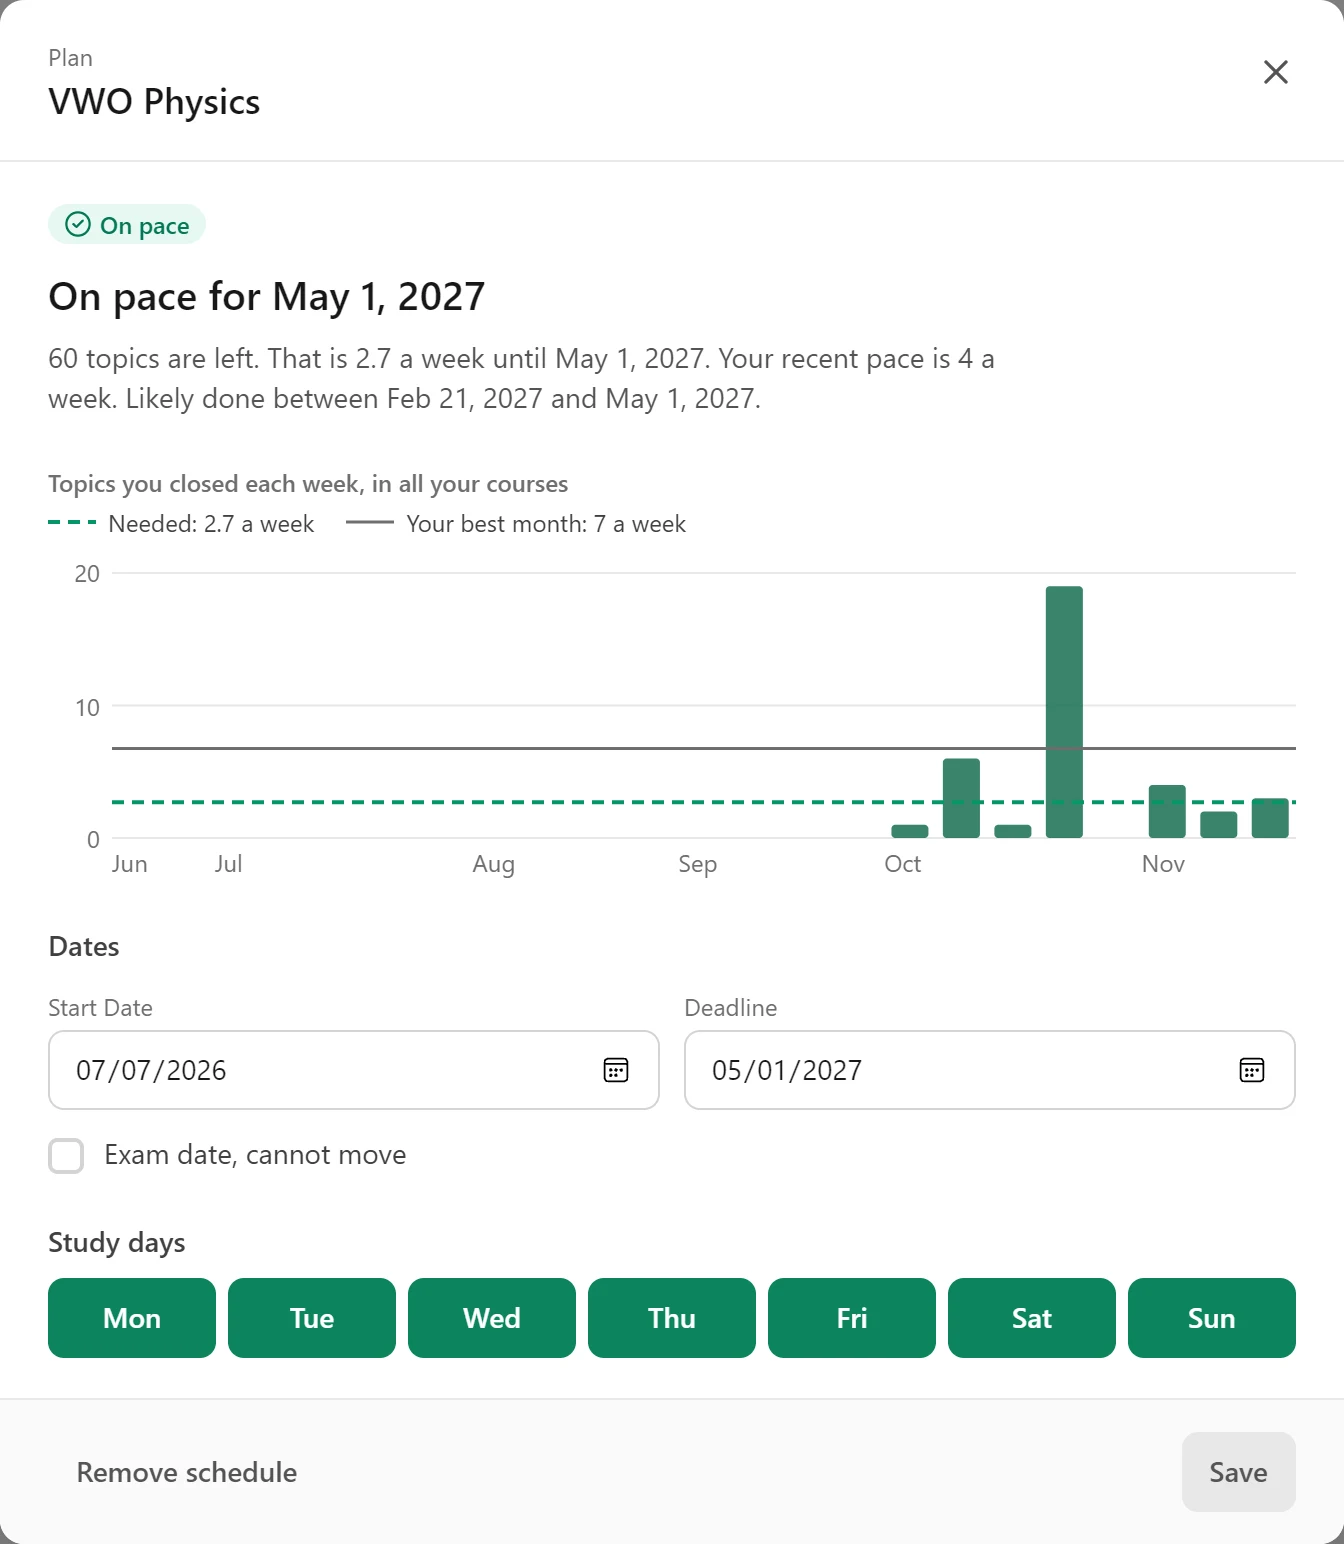
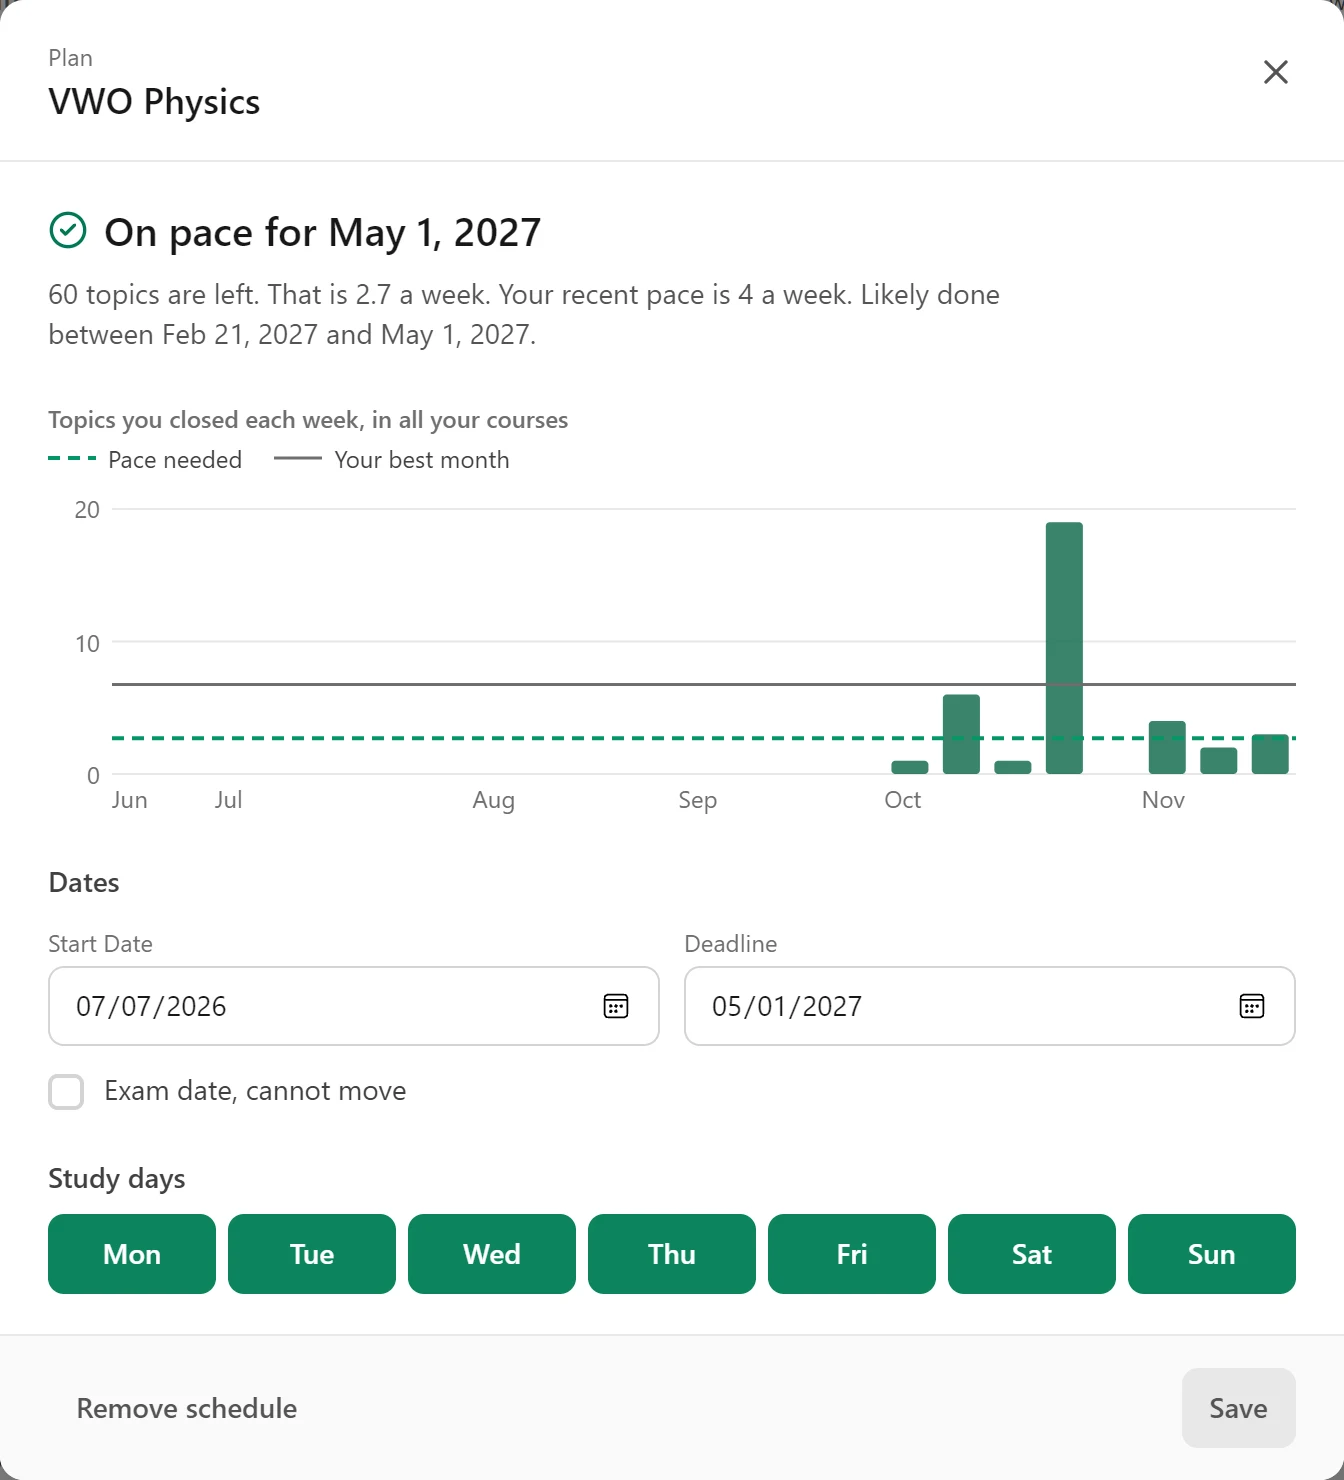
Say each plan fact once in the plan panel
The panel said its verdict twice: a pill reading "On pace" over the
headline "On pace for May 1", and the date again in the sentence under
it. The pill is gone and its icon stands in the headline, in the band's
colour; the sentence gives the weekly rate without the date. The chart's
key names its lines without their numbers, which the sentences give.

diff --git a/src/components/plan/verdict.tsx b/src/components/plan/verdict.tsx
@@ -97,6 +97,17 @@ export function VerdictPill({ verdict, t, className = '' }: {
 }
 
 /**
+ * The band's icon in its colour, for beside a sentence that already names the
+ * band in words (the plan's headline): a pill there said "On pace" twice.
+ */
+export function VerdictIcon({ verdict, className = '' }: { verdict: PaceVerdict; className?: string }) {
+    const Icon = ICON[verdict.band];
+    // The pill's text colour only: no tint behind a bare icon.
+    const colour = TONE[verdict.band].split(' ').filter(c => c.startsWith('text-') || c.startsWith('dark:text-')).join(' ');
+    return <Icon className={`shrink-0 ${colour} ${className}`} aria-hidden="true" />;
+}
+
+/**
  * A weekly amount as it is read: whole numbers from 3 up ("25 a week"), one
  * decimal below that, where "0.4 a week" and "0 a week" say different things.
  * Anything above zero stays above it: one topic left in half a year is 0.1, not
@@ -151,7 +162,6 @@ export function verdictHeadline(v: PaceVerdict, t: TFunction, today: string): st
  */
 export function verdictSentences(v: PaceVerdict, t: TFunction, num: Num, today: string): string[] {
     const cards = v.unit === 'cards';
-    const date = v.deadline ? shortDay(v.deadline, today) : '';
     const out: string[] = [];
     if (v.band === 'done') {
         out.push(cards ? t("Every card in it has been met.") : t("Every topic in it is closed."));
@@ -167,7 +177,8 @@ export function verdictSentences(v: PaceVerdict, t: TFunction, num: Num, today: 
             : t("After two weeks of study the app compares this date with your own pace."));
         return out;
     }
-    out.push(t("That is {{n}} a week until {{date}}.", { n: rate(num, v.needed), date }));
+    // No date: the headline above names it.
+    out.push(t("That is {{n}} a week.", { n: rate(num, v.needed) }));
     if (v.quietWeeks >= 2) {
         out.push(cards
             ? t("No new card met for {{n}} weeks.", { count: v.quietWeeks, n: num(v.quietWeeks) })

diff --git a/src/components/ScheduleModal.tsx b/src/components/ScheduleModal.tsx
@@ -14,7 +14,7 @@ import { TextInput } from './ui/Field';
 import { DIALOG_BODY, DIALOG_SHELL } from './ui/Dialog';
 import Checkbox from './Checkbox';
 import WeeklyChart from './plan/WeeklyChart';
-import { VerdictPill, oneStop, perWeek, shortDay, verdictHeadline, verdictSentences } from './plan/verdict';
+import { VerdictIcon, oneStop, perWeek, shortDay, verdictHeadline, verdictSentences } from './plan/verdict';
 
 /**
  * The plan of one course: will the date work, what can be done if not, and the
@@ -302,9 +302,12 @@ export default function ScheduleModal() {
                     )}
                     {verdict && (
                         <section aria-labelledby={`${titleId}-verdict`} className="space-y-2">
-                            <VerdictPill verdict={verdict} t={t} />
-                            <h3 id={`${titleId}-verdict`} className="text-xl font-semibold text-slate-900 dark:text-white">
-                                {verdictHeadline(verdict, t, today)}
+                            {/* The headline names the band in words, so no pill
+                                above it: "On pace" over "On pace for May 1" said
+                                it twice. Its icon keeps the band's colour. */}
+                            <h3 id={`${titleId}-verdict`} className="flex items-start gap-2 text-xl font-semibold text-slate-900 dark:text-white">
+                                <VerdictIcon verdict={verdict} className="h-[1em] w-[1em] mt-[0.2em]" />
+                                <span className="min-w-0">{verdictHeadline(verdict, t, today)}</span>
                             </h3>
                             <p className="text-sm text-slate-600 dark:text-slate-300 max-w-prose">
                                 {verdictSentences(verdict, t, num, today).join(' ')}

diff --git a/src/components/plan/WeeklyChart.tsx b/src/components/plan/WeeklyChart.tsx
@@ -139,13 +139,14 @@ export default function WeeklyChart({ pace, needed, band, unit }: {
             </figcaption>
             {/* The lines' names sit above the drawing, not at the lines' ends:
                 there they covered the newest weeks, the bars read first. */}
+            {/* Names only: the sentences above the chart give the numbers. */}
             {(neededName || bestName) && (
                 <div aria-hidden="true" className="mt-1 flex flex-wrap gap-x-4 gap-y-0.5 text-xs text-slate-700 dark:text-slate-200">
                     {neededName && (
-                        <span className="inline-flex items-center gap-1.5">{sample(NEEDED_STROKE[band]!, true)}{neededName}</span>
+                        <span className="inline-flex items-center gap-1.5">{sample(NEEDED_STROKE[band]!, true)}{t("Pace needed")}</span>
                     )}
                     {bestName && (
-                        <span className="inline-flex items-center gap-1.5">{sample('stroke-slate-500 dark:stroke-slate-400', false)}{bestName}</span>
+                        <span className="inline-flex items-center gap-1.5">{sample('stroke-slate-500 dark:stroke-slate-400', false)}{t("Your best month")}</span>
                     )}
                 </div>
             )}
